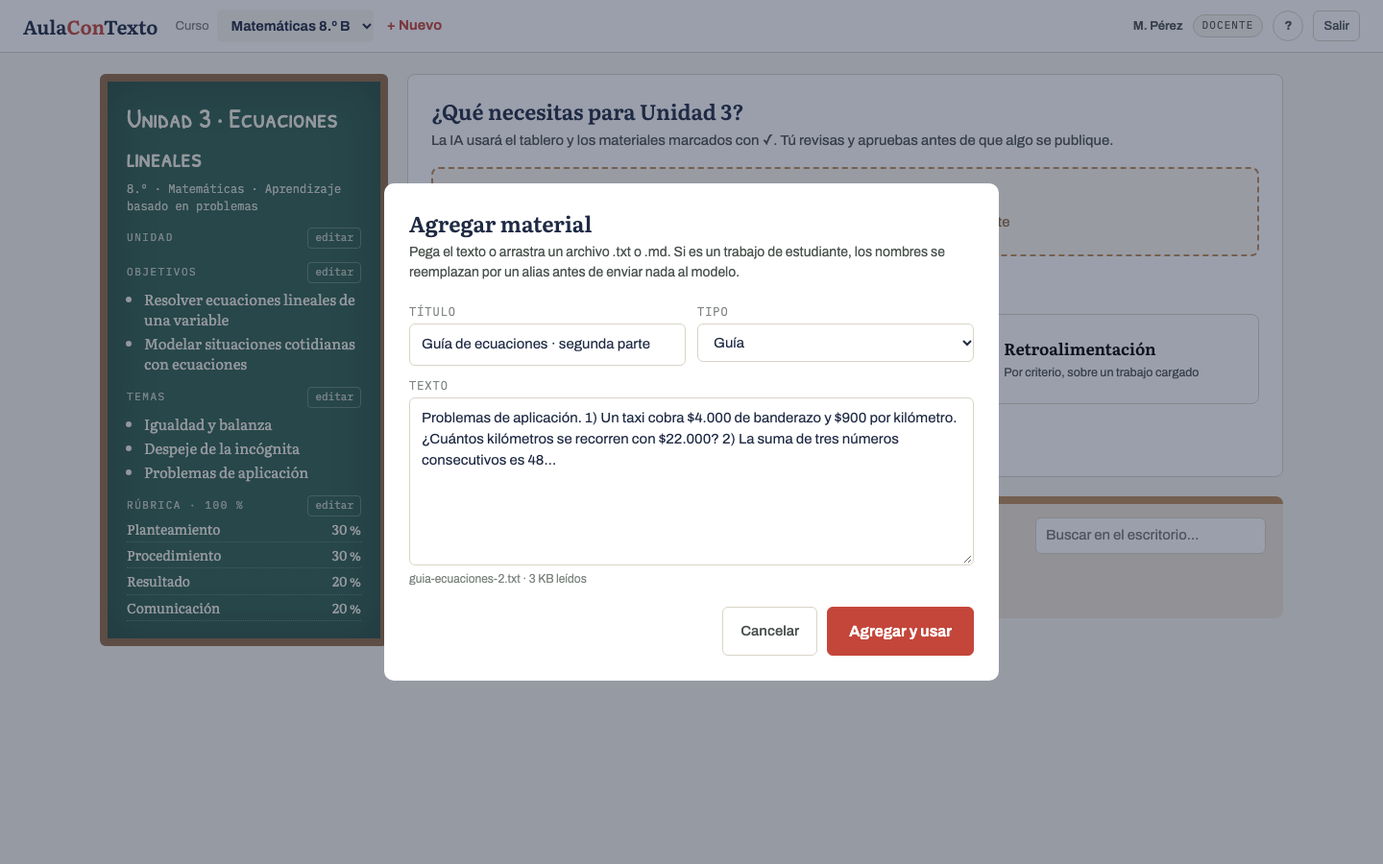
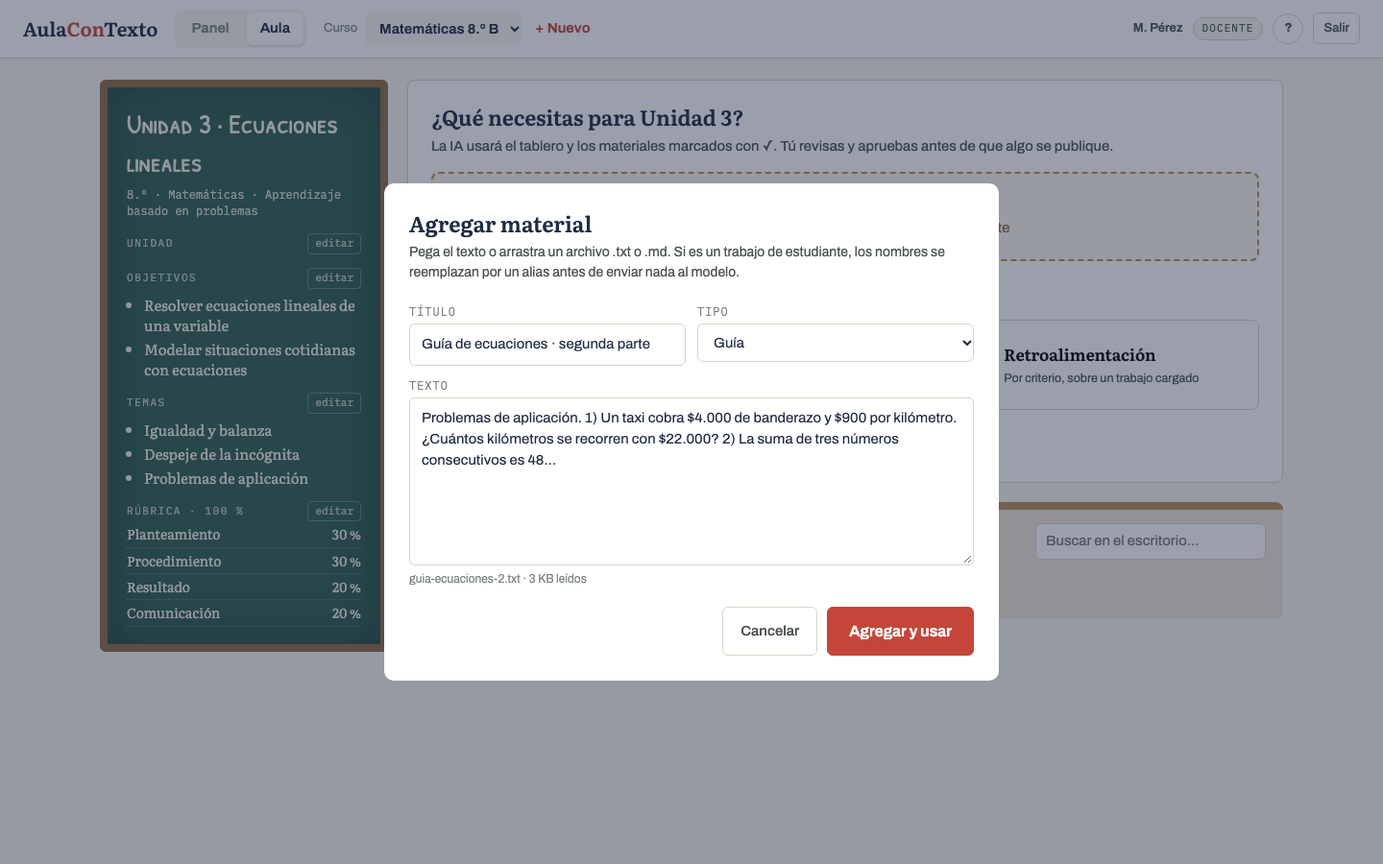
Prototipo v2: panel de inicio tipo dashboard con fichas de pizarrón, tarjetas por curso, pendientes y actividad; resumen por curso en coordinación

diff --git a/prototipo/prototipo-v2.html b/prototipo/prototipo-v2.html
@@ -64,7 +64,7 @@ label{display:block;font-size:12px;letter-spacing:.08em;text-transform:uppercase
 .escritorio{margin-top:20px;background:#EFE6D8;border-radius:8px;padding:14px 18px;border-top:8px solid var(--madera)}
 .escritorio .bar{display:flex;gap:14px;align-items:center;margin-bottom:10px;flex-wrap:wrap}.escritorio .tabs{display:flex;gap:14px;font-size:14px}.escritorio .tabs b{cursor:pointer;color:var(--ink3);font-weight:500}.escritorio .tabs b.on{color:var(--ink);font-weight:600;border-bottom:2px solid var(--rojo)}
 .escritorio input{width:240px;padding:7px 10px}
-.hojas{display:flex;gap:10px;overflow-x:auto;padding-bottom:4px}.hoja{min-width:230px;background:#fff;border:1px solid var(--rule);padding:10px 12px;border-radius:4px;cursor:pointer;box-shadow:1px 2px 0 rgba(0,0,0,.08)}
+.hojas{display:grid;grid-template-columns:repeat(auto-fill,minmax(220px,1fr));gap:10px}.hoja{background:#fff;border:1px solid var(--rule);padding:10px 12px;border-radius:4px;cursor:pointer;box-shadow:1px 2px 0 rgba(0,0,0,.08);min-height:84px}.hoja:hover{border-color:var(--ink)}
 .hoja .s{font-family:var(--mono);font-size:11px;letter-spacing:.1em;text-transform:uppercase}.hoja .s.p{color:var(--rojo)}.hoja .s.a{color:var(--ok)}.hoja small{color:var(--ink3)}
 .vacio{color:var(--ink3);font-size:13px;padding:10px 0}
 .modal{position:fixed;inset:0;background:rgba(31,42,68,.45);display:none;align-items:center;justify-content:center;padding:20px;z-index:5}.modal.on{display:flex}
@@ -74,7 +74,26 @@ label{display:block;font-size:12px;letter-spacing:.08em;text-transform:uppercase
 .tip{background:#FFF8DC;border:1px solid #E8D27A;border-radius:6px;padding:8px 12px;font-size:13px;color:#6B5A12;margin-bottom:12px;display:flex;justify-content:space-between;gap:10px}.tip button{border:none;background:none;color:#6B5A12;font-weight:600}
 .banner{background:var(--ink);color:#fff;padding:8px 24px;font-size:13px;text-align:center}
 /* coordinador */
-.kpis{display:grid;grid-template-columns:repeat(4,1fr);gap:12px;margin-bottom:16px}.kpi{background:#fff;border:1px solid var(--rule);border-radius:8px;padding:14px}.kpi b{display:block;font-family:var(--serif);font-size:28px}.kpi span{font-size:12px;color:var(--ink3);font-family:var(--mono);letter-spacing:.08em;text-transform:uppercase}
+.kpis{display:grid;grid-template-columns:repeat(4,1fr);gap:14px;margin-bottom:18px}
+.kpi{background:var(--tablero);border:5px solid var(--madera2);border-radius:6px;padding:14px 16px;color:var(--tiza);box-shadow:inset 0 0 30px rgba(0,0,0,.25);position:relative;min-height:96px}
+.kpi b{display:block;font-family:var(--chalk);font-weight:400;font-size:44px;line-height:1}.kpi span{font-size:11px;font-family:var(--mono);letter-spacing:.12em;text-transform:uppercase;opacity:.8}.kpi small{display:block;margin-top:6px;font-size:12px;opacity:.85;font-family:var(--serif)}
+.kpi.rojo b{color:#F6C9C3}.kpi.ok b{color:#CFEBDB}.kpi.ia b{color:#DCD3F2}.kpi.am b{color:var(--amar)}
+.nav{display:flex;gap:4px;background:var(--pared);border-radius:8px;padding:3px}.nav button{border:none;background:none;padding:6px 14px;border-radius:6px;font-weight:600;color:var(--ink3)}.nav button.on{background:#fff;color:var(--ink);box-shadow:0 1px 2px rgba(0,0,0,.12)}
+.panel h2{font-family:var(--serif);font-size:22px;margin:0 0 2px}.panel .sub{color:var(--ink2);margin:0 0 16px;font-size:14px}
+.sec{font-family:var(--mono);font-size:11px;letter-spacing:.14em;text-transform:uppercase;color:var(--ink3);margin:22px 0 10px;display:flex;align-items:center;gap:10px}.sec:after{content:"";flex:1;height:1px;background:var(--rule)}
+.cursos{display:grid;grid-template-columns:repeat(auto-fill,minmax(250px,1fr));gap:14px}
+.ccard{background:var(--tablero);border:6px solid var(--madera2);border-radius:6px;padding:14px 16px 12px;color:var(--tiza);box-shadow:inset 0 0 40px rgba(0,0,0,.25);cursor:pointer;display:flex;flex-direction:column;gap:6px;min-height:170px;transition:transform .12s}.ccard:hover{transform:translateY(-2px)}
+.ccard h3{font-family:var(--chalk);font-weight:400;font-size:26px;margin:0;line-height:1.05}.ccard .meta{font-family:var(--mono);font-size:11px;opacity:.8}
+.ccard .nums{display:flex;gap:14px;margin-top:auto;padding-top:8px;border-top:1px dashed rgba(255,255,255,.3)}.ccard .nums div{font-family:var(--chalk);font-size:22px;line-height:1}.ccard .nums span{display:block;font-family:var(--mono);font-size:10px;letter-spacing:.1em;text-transform:uppercase;opacity:.75;margin-top:2px}
+.ccard .alerta{font-size:11px;background:rgba(242,231,107,.18);border-left:3px solid var(--amar);padding:3px 6px;font-family:var(--sans)}
+.ccard.nuevo{background:transparent;border:2px dashed var(--madera);color:var(--madera2);box-shadow:none;align-items:center;justify-content:center;text-align:center}.ccard.nuevo h3{font-family:var(--sans);font-size:16px;font-weight:600;color:var(--madera2)}.ccard.nuevo:hover{background:#F4EBDD}
+.dos{display:grid;grid-template-columns:1fr 1fr;gap:14px}
+.wcard{background:#fff;border:1px solid var(--rule);border-radius:8px;padding:14px 16px}.wcard h4{margin:0 0 10px;font-family:var(--mono);font-size:11px;letter-spacing:.14em;text-transform:uppercase;color:var(--ink3)}
+.act{display:flex;gap:10px;padding:8px 0;border-bottom:1px dotted var(--rule);font-size:13px;align-items:flex-start}.act:last-child{border:0}.act i{width:10px;height:10px;border-radius:50%;flex:none;margin-top:5px}.act .ok{background:var(--ok)}.act .pen{background:var(--rojo)}.act .mat{background:var(--madera)}.act small{color:var(--ink3);display:block}
+.mini{display:grid;grid-template-columns:repeat(auto-fill,minmax(150px,1fr));gap:10px}.mini .hoja{min-height:70px}
+.barra{height:8px;background:var(--pared);border-radius:4px;overflow:hidden;margin-top:6px}.barra i{display:block;height:100%;background:var(--ok)}
+.escritorio .lab{font-family:var(--mono);font-size:11px;letter-spacing:.14em;text-transform:uppercase;color:var(--madera2)}
+@media (max-width:900px){.dos{grid-template-columns:1fr}}
 table.t{width:100%;border-collapse:collapse;font-size:14px;background:#fff}table.t th{text-align:left;font-family:var(--mono);font-size:11px;letter-spacing:.1em;text-transform:uppercase;color:var(--ink3);padding:8px;border-bottom:1px solid var(--rule)}table.t td{padding:9px 8px;border-bottom:1px solid var(--rule);vertical-align:top}table.t tr:hover td{background:#FBFAF7}
 .filtros{display:flex;gap:10px;margin-bottom:12px;flex-wrap:wrap}.filtros select,.filtros input{width:auto}
 .ayuda{position:fixed;right:20px;bottom:20px;width:320px;background:#fff;border:1px solid var(--rule);border-radius:10px;padding:16px;box-shadow:0 10px 30px rgba(0,0,0,.15);display:none;z-index:6;font-size:13px}.ayuda.on{display:block}.ayuda h4{margin:0 0 8px;font-family:var(--serif)}.ayuda kbd{font-family:var(--mono);background:var(--pared);border:1px solid var(--rule);border-radius:3px;padding:0 5px;font-size:11px}
@@ -94,6 +113,7 @@ table.t{width:100%;border-collapse:collapse;font-size:14px;background:#fff}table
 
 <div id="app" style="display:none">
 <div class="top"><div class="brand">Aula<span>Con</span>Texto</div>
+ <div class="nav" id="nav"><button data-v="panel">Panel</button><button data-v="aula">Aula</button></div>
  <div class="cursosel" id="cursosel"><span style="color:var(--ink3);font-size:13px">Curso</span><select id="csel"></select><button class="add" id="bnuevo">+ Nuevo</button></div>
  <div class="sp"></div><div class="who"><b id="wnom"></b><span class="pill" id="wrol"></span><button class="ico" id="bayuda" title="Ayuda (?)">?</button><button class="btn g sm" id="bsalir">Salir</button></div></div>
 <div class="banner" id="banner" style="display:none">Vista de coordinador · solo lectura · se muestran únicamente los planes y retroalimentaciones aprobados</div>
@@ -108,7 +128,7 @@ table.t{width:100%;border-collapse:collapse;font-size:14px;background:#fff}table
 <div class="modal" id="mm"><div class="box"><h2>Agregar material</h2><p class="sub">Pega el texto o arrastra un archivo .txt o .md. Si es un trabajo de estudiante, los nombres se reemplazan por un alias antes de enviar nada al modelo.</p><div class="row"><div><label>Título</label><input id="m_tit" placeholder="Guía de ecuaciones"></div><div><label>Tipo</label><select id="m_tipo"><option>Guía</option><option>Lectura</option><option>Plan de área</option><option>Trabajo de estudiante</option></select></div></div><label>Texto</label><textarea id="m_txt" rows="7" placeholder="Pega aquí el contenido…"></textarea><div id="m_prev" style="font-size:12px;color:var(--ink3);margin-top:6px"></div><div class="macts"><button class="btn g" data-close>Cancelar</button><button class="btn p" id="mok">Agregar y usar</button></div></div></div>
 <div class="modal" id="mr"><div class="box"><h2>Retroalimentación de un trabajo</h2><p class="sub">La IA redacta un borrador por criterio de la rúbrica. Tus observaciones se incorporan al borrador y luego lo revisas y apruebas.</p><label>Trabajo del estudiante</label><select id="r_trab"></select><label>Observaciones del docente (opcional)</label><textarea id="r_obs" rows="4" placeholder="Lo que viste al revisar: por ejemplo, «no justificó el despeje en el ejercicio 2; el 3 no lo intentó»."></textarea><div class="macts"><button class="btn g" data-close>Cancelar</button><button class="btn p" id="rok">Generar borrador</button></div></div></div>
 <input type="file" id="file" accept=".txt,.md,text/plain" style="display:none">
-<div class="ayuda" id="ayuda"><h4>Cómo funciona</h4><p><b>Tablero</b>: tu contexto. Lo que escribas ahí es lo único que la IA usa.</p><p><b>Dos tintas</b>: violeta = lo generó la IA; tinta = lo escribiste tú. Nada se publica sin tu aprobación.</p><p><b>Retroalimentación</b>: eliges el trabajo y, si quieres, escribes lo que observaste. La IA redacta por criterio y tú validas.</p><p><b>Regenerar por bloque</b>: pasa el mouse sobre un bloque y pulsa ↻. Tus otros cambios se conservan.</p><p><kbd>G</kbd> generar plan · <kbd>Esc</kbd> cerrar · <kbd>?</kbd> esta ayuda</p><button class="btn g sm" data-close style="margin-top:6px">Cerrar</button></div>
+<div class="ayuda" id="ayuda"><h4>Cómo funciona</h4><p><b>Panel</b>: resumen de tus cursos, pendientes y actividad. <b>Aula</b>: donde generas y validas.</p><p><b>Tablero</b>: tu contexto. Lo que escribas ahí es lo único que la IA usa.</p><p><b>Dos tintas</b>: violeta = lo generó la IA; tinta = lo escribiste tú. Nada se publica sin tu aprobación.</p><p><b>Retroalimentación</b>: eliges el trabajo y, si quieres, escribes lo que observaste. La IA redacta por criterio y tú validas.</p><p><b>Regenerar por bloque</b>: pasa el mouse sobre un bloque y pulsa ↻. Tus otros cambios se conservan.</p><p><kbd>G</kbd> generar plan · <kbd>Esc</kbd> cerrar · <kbd>?</kbd> esta ayuda</p><button class="btn g sm" data-close style="margin-top:6px">Cerrar</button></div>
 <div id="print"></div><div class="toast" id="toast"></div>
 
 <script>
@@ -118,9 +138,9 @@ const SEED={cursos:[
  {id:1,nombre:'Matemáticas 8.º B',grado:'8.º',asig:'Matemáticas',met:'Aprendizaje basado en problemas',uni:'Unidad 3 · Ecuaciones lineales',obj:['Resolver ecuaciones lineales de una variable','Modelar situaciones cotidianas con ecuaciones'],tem:['Igualdad y balanza','Despeje de la incógnita','Problemas de aplicación'],rub:[['Planteamiento',30],['Procedimiento',30],['Resultado',20],['Comunicación',20]],
   mats:[{t:'Guía de ecuaciones',tipo:'Guía',on:true,txt:'Una ecuación lineal es una igualdad con una incógnita de grado uno. Para resolverla se aplican las propiedades de la igualdad: lo que se hace a un lado se hace al otro. Ejercicios: 1) 2x + 3 = 11. 2) 5x − 4 = 3x + 6. 3) El presupuesto de una salida es de $120.000 y cada estudiante aporta $x…'},{t:'Trabajo · estudiante A-07',tipo:'Trabajo de estudiante',on:false,txt:'Ejercicio 1: 2x+3=11, entonces 2x=8 y x=4. Ejercicio 2: 5x−4=3x+6, paso 5x−3x=6… x=5 (no justifica el paso). Ejercicio 3: no lo intentó.'}],
   docs:[{id:'d1',k:'plan',tipo:'Plan de clase',titulo:'Plan · Unidad 2 · Números enteros',ok:true,v:2,aprobadoPor:'M. Pérez',fecha:'2026-10-28 14:12',vers:[{v:1,html:'<h3>Plan de clase · Unidad 2</h3><div class="bloque"><b class="lb">Objetivo</b><span class="ia">Operar con números enteros en la recta numérica.</span></div>'},{v:2,html:'<h3>Plan de clase · Unidad 2 · Números enteros</h3><div class="bloque"><b class="lb">Objetivo</b><span class="edit">Operar con números enteros en la recta numérica y en situaciones de temperatura y deuda.</span></div><div class="bloque"><b class="lb">Inicio · 10 min</b><span class="ia">Termómetro gigante en el tablero: ¿cuánto bajó la temperatura?</span></div>'}],ctx:{obj:2,tem:3,rub:4,mats:['Guía de enteros']}}]},
- {id:2,nombre:'Lenguaje 7.º A',grado:'7.º',asig:'Lenguaje',met:'Aprendizaje cooperativo',uni:'Unidad 2 · Texto argumentativo',obj:['Escribir un texto argumentativo con tesis y argumentos'],tem:['Tesis','Argumentos','Conectores'],rub:[['Tesis clara',30],['Argumentación',40],['Cohesión',30]],mats:[],docs:[]},
+ {id:2,nombre:'Lenguaje 7.º A',grado:'7.º',asig:'Lenguaje',met:'Aprendizaje cooperativo',uni:'Unidad 2 · Texto argumentativo',obj:['Escribir un texto argumentativo con tesis y argumentos'],tem:['Tesis','Argumentos','Conectores'],rub:[['Tesis clara',30],['Argumentación',40],['Cohesión',30]],mats:[{t:'Lectura · columna de opinión',tipo:'Lectura',on:true,txt:'Una tesis es la idea que el autor defiende. Los argumentos la sostienen con razones, ejemplos o datos. Los conectores (por lo tanto, sin embargo, además) ordenan el razonamiento.'}],docs:[{id:'d2',k:'taller',tipo:'Taller',titulo:'Taller · Unidad 2 · Texto argumentativo',ok:false,v:1,vers:[{v:1,html:'<h3>Taller · Unidad 2 · Texto argumentativo</h3><div class="m">7.º · Aprendizaje cooperativo</div><div class="bloque"><b class="lb" style="font-family:var(--sans);font-size:13px;color:var(--ink3);display:block">Punto 1 · Tesis clara</b><span class="ia" contenteditable>Lee la columna de opinión y subraya la tesis. Escríbela con tus palabras en una línea.</span></div><div class="bloque"><b class="lb" style="font-family:var(--sans);font-size:13px;color:var(--ink3);display:block">Punto 2 · Argumentación</b><span class="ia" contenteditable>Identifica dos argumentos del autor y clasifícalos: razón, ejemplo o dato.</span></div>'}],ctx:{obj:1,tem:3,rub:3,mats:['Lectura · columna de opinión']}}]},
  {id:3,nombre:'Ciencias 9.º C',grado:'9.º',asig:'Ciencias naturales',met:'Aula invertida',uni:'Unidad 1 · Célula',obj:['Describir la estructura y función de la célula'],tem:['Membrana','Núcleo','Organelos'],rub:[['Comprensión',40],['Uso de evidencia',30],['Comunicación',30]],mats:[],docs:[]}]};
-let S=load(),cur=S.cursos[0],user=null,modo='idle',hoja=null,verSel=null,tab='p',q='',edit=null,timer=null;
+let S=load(),cur=S.cursos[0],user=null,vista='panel',modo='idle',hoja=null,verSel=null,tab='p',q='',edit=null,timer=null;
 function load(){try{const s=localStorage.getItem('aulacontexto-v2');if(s){const o=JSON.parse(s);if(o.cursos&&o.cursos[0]&&Array.isArray(o.cursos[0].docs))return o}}catch(e){}return JSON.parse(JSON.stringify(SEED))}
 function save(){try{localStorage.setItem('aulacontexto-v2',JSON.stringify(S))}catch(e){}}
 const toast=m=>{const t=$('#toast');t.textContent=m;t.classList.add('on');clearTimeout(t._t);t._t=setTimeout(()=>t.classList.remove('on'),2600)};
@@ -128,16 +148,29 @@ const closeAll=()=>{$$('.modal').forEach(m=>m.classList.remove('on'));$('#ayuda'
 document.addEventListener('click',e=>{if(e.target.closest('[data-close]'))closeAll()});
 document.addEventListener('keydown',e=>{if(e.key==='Escape')closeAll();if(!user||e.target.matches('input,textarea,[contenteditable]'))return;if(e.key==='?'){$('#ayuda').classList.toggle('on')}if((e.key==='g'||e.key==='G')&&user.rol==='doc'&&modo==='idle')generar('plan')});
 // ---- login
-function entrar(rol){user=rol==='doc'?{nombre:'M. Pérez',rol:'doc',label:'Docente'}:{nombre:'L. Rojas',rol:'coord',label:'Coordinación'};$('#login').style.display='none';$('#app').style.display='';$('#wnom').textContent=user.nombre;$('#wrol').textContent=user.label;$('#banner').style.display=rol==='coord'?'':'none';$('#cursosel').style.display=rol==='coord'?'none':'';modo='idle';render();}
+function entrar(rol){user=rol==='doc'?{nombre:'M. Pérez',rol:'doc',label:'Docente'}:{nombre:'L. Rojas',rol:'coord',label:'Coordinación'};$('#login').style.display='none';$('#app').style.display='';$('#wnom').textContent=user.nombre;$('#wrol').textContent=user.label;$('#banner').style.display=rol==='coord'?'':'none';$('#cursosel').style.display=rol==='coord'?'none':'';$('#nav').style.display=rol==='coord'?'none':'';vista='panel';modo='idle';render();}
+$$('#nav button').forEach(b=>b.onclick=()=>{vista=b.dataset.v;modo='idle';render()});
 $$('[data-demo]').forEach(b=>b.onclick=()=>entrar(b.dataset.demo));
 $('#l_ok').onclick=()=>{const m=$('#l_mail').value;if(!m.includes('@')){toast('Escribe un correo institucional');return}entrar(m.startsWith('coord')?'coord':'doc')};
 $('#bsalir').onclick=()=>{user=null;$('#app').style.display='none';$('#login').style.display=''};
 $('#bayuda').onclick=()=>$('#ayuda').classList.toggle('on');
 // ---- render
-function render(){if(!user)return;if(user.rol==='coord'){renderCoord();return}renderSel();$('#main').innerHTML=`<div class="tip" id="tip"><span><b>Para empezar:</b> el tablero ya tiene el contexto del curso. Agrega un material o pulsa «Generar plan» (tecla G) y revisa el borrador antes de aprobarlo.</span><button id="tipx">Entendido</button></div><div class="aula"><div class="tablero" id="tablero"></div><div><div class="zona" id="zona"></div><div class="escritorio"><div class="bar"><div class="tabs"><b data-t="p">Pendientes <span id="np"></span></b><b data-t="a">Aprobados <span id="na"></span></b><b data-t="t">Todos</b></div><span class="sp"></span><input id="qs" placeholder="Buscar en el escritorio…" value="${q}"></div><div class="hojas" id="hojas"></div></div></div></div>`;
+function render(){if(!user)return;if(user.rol==='coord'){renderCoord();return}$$('#nav button').forEach(b=>b.classList.toggle('on',b.dataset.v===vista));$('#cursosel').style.display=vista==='aula'?'':'none';if(vista==='panel'){renderPanel();return}renderSel();$('#main').innerHTML=`<div class="tip" id="tip"><span><b>Para empezar:</b> el tablero ya tiene el contexto del curso. Agrega un material o pulsa «Generar plan» (tecla G) y revisa el borrador antes de aprobarlo.</span><button id="tipx">Entendido</button></div><div class="aula"><div class="tablero" id="tablero"></div><div><div class="zona" id="zona"></div><div class="escritorio"><div class="bar"><span class="lab">Escritorio</span><div class="tabs"><b data-t="p">Pendientes <span id="np"></span></b><b data-t="a">Aprobados <span id="na"></span></b><b data-t="t">Todos</b></div><span class="sp"></span><input id="qs" placeholder="Buscar en el escritorio…" value="${q}"></div><div class="hojas" id="hojas"></div></div></div></div>`;
  if(S.tipOff)$('#tip').remove();else $('#tipx').onclick=()=>{S.tipOff=true;save();$('#tip').remove()};
  $('#qs').oninput=e=>{q=e.target.value;renderHojas()};renderTablero();renderZona();renderHojas()}
-function renderSel(){$('#csel').innerHTML=S.cursos.map(c=>`<option value="${c.id}" ${c===cur?'selected':''}>${c.nombre}</option>`).join('');$('#csel').onchange=e=>{cur=S.cursos.find(c=>c.id==e.target.value);modo='idle';hoja=null;render()}}
+function fecha(d){return d.fecha?d.fecha.slice(0,10):''}
+function renderPanel(){const pend=S.cursos.flatMap(c=>c.docs.filter(d=>!d.ok).map(d=>({c,d})));const apr=S.cursos.flatMap(c=>c.docs.filter(d=>d.ok).map(d=>({c,d}))).sort((a,b)=>(b.d.fecha||'').localeCompare(a.d.fecha||''));const mats=S.cursos.reduce((a,c)=>a+c.mats.length,0);const incompletos=S.cursos.filter(c=>!c.obj.length||!c.tem.length);
+ const act=[...apr.map(({c,d})=>({t:d.fecha,h:`<b>${d.titulo}</b> aprobado · ${c.nombre}`,k:'ok'})),...pend.map(({c,d})=>({t:'',h:`<b>${d.titulo}</b> en borrador · ${c.nombre}`,k:'pen'})),...S.cursos.flatMap(c=>c.mats.map(m=>({t:'',h:`Material «${m.t}» en ${c.nombre}${m.on?' · en uso':''}`,k:'mat'})))].slice(0,7);
+ $('#main').innerHTML=`<div class="panel"><h2>Hola, ${user.nombre}</h2><p class="sub">Tu semana en un vistazo. Entra a un aula para generar o revisar.</p>
+ <div class="kpis"><div class="kpi"><b>${S.cursos.length}</b><span>Cursos</span><small>${incompletos.length?incompletos.length+' con tablero incompleto':'Todos con tablero completo'}</small></div><div class="kpi rojo"><b>${pend.length}</b><span>Pendientes de revisar</span><small>${pend.length?'Borradores esperando tu validación':'Nada por revisar'}</small></div><div class="kpi ok"><b>${apr.length}</b><span>Aprobados</span><small>${apr[0]?'Último: '+fecha(apr[0].d):'Aún no apruebas ninguno'}</small></div><div class="kpi ia"><b>${mats}</b><span>Materiales</span><small>${S.cursos.reduce((a,c)=>a+c.mats.filter(m=>m.on).length,0)} marcados para la IA</small></div></div>
+ <div class="sec">Mis cursos</div><div class="cursos">${S.cursos.map(c=>{const p=c.docs.filter(d=>!d.ok).length,a=c.docs.filter(d=>d.ok).length,inc=!c.obj.length||!c.tem.length;return `<div class="ccard" data-c="${c.id}"><h3>${c.nombre}</h3><div class="meta">${c.grado} · ${c.asig}</div><div class="meta">${c.uni}</div>${inc?'<div class="alerta">Tablero incompleto</div>':''}<div class="nums"><div>${p}<span>Pendientes</span></div><div>${a}<span>Aprobados</span></div><div>${c.mats.length}<span>Materiales</span></div></div></div>`}).join('')}<div class="ccard nuevo" id="pnuevo"><h3>+ Nuevo curso</h3><div style="font-size:12px">Tres datos y listo</div></div></div>
+ <div class="dos" style="margin-top:22px"><div class="wcard"><h4>Pendientes de revisar</h4>${pend.length?`<div class="mini">${pend.map(({c,d})=>`<div class="hoja" data-h="${c.id}:${d.id}"><div class="s p">Pendiente</div><b>${d.titulo}</b><br><small>${c.nombre} · ${d.tipo}</small></div>`).join('')}</div>`:'<div class="vacio">Nada pendiente. Genera algo desde un aula.</div>'}</div>
+ <div class="wcard"><h4>Actividad reciente</h4>${act.length?act.map(a=>`<div class="act"><i class="${a.k}"></i><div>${a.h}${a.t?`<small>${a.t}</small>`:''}</div></div>`).join(''):'<div class="vacio">Sin actividad todavía.</div>'}</div></div>
+ <div class="dos" style="margin-top:14px"><div class="wcard"><h4>Avance de validación por curso</h4>${S.cursos.map(c=>{const n=c.docs.length,a=c.docs.filter(d=>d.ok).length;return `<div style="font-size:13px;margin-bottom:10px"><div style="display:flex;justify-content:space-between"><span>${c.nombre}</span><span style="color:var(--ink3)">${a}/${n} aprobados</span></div><div class="barra"><i style="width:${n?Math.round(a*100/n):0}%"></i></div></div>`}).join('')}</div>
+ <div class="wcard"><h4>Cómo funciona</h4><div class="act"><i class="mat"></i><div><b>1. Tablero</b><small>Objetivos, temas y rúbrica: el único contexto que usa la IA.</small></div></div><div class="act"><i class="pen"></i><div><b>2. Generar</b><small>Plan de clase, taller o retroalimentación sobre un trabajo.</small></div></div><div class="act"><i class="ok"></i><div><b>3. Validar</b><small>Dos tintas: violeta la IA, tinta tú. Nada se publica sin tu aprobación.</small></div></div></div></div></div>`;
+ $$('.ccard[data-c]').forEach(el=>el.onclick=()=>{cur=S.cursos.find(c=>c.id==el.dataset.c);vista='aula';modo='idle';hoja=null;render()});$('#pnuevo').onclick=()=>$('#mn').classList.add('on');
+ $$('[data-h]').forEach(el=>el.onclick=()=>{const [ci,di]=el.dataset.h.split(':');cur=S.cursos.find(c=>c.id==ci);hoja=cur.docs.find(d=>d.id===di);vista='aula';modo='res';render()})}
+function renderSel(){$('#csel').innerHTML=S.cursos.map(c=>`<option value="${c.id}" ${c===cur?'selected':''}>${c.nombre}</option>`).join('');$('#csel').onchange=e=>{cur=S.cursos.find(c=>c.id==e.target.value);vista='aula';modo='idle';hoja=null;render()}}
 function renderTablero(){const t=$('#tablero');const ed=(k,l)=>`<button data-edit="${k}">${l}</button>`;const incompleto=!cur.obj.length||!cur.tem.length;
  t.innerHTML=`<h3>${cur.uni}</h3><div class="meta">${cur.grado} · ${cur.asig} · ${cur.met}</div>${incompleto?'<div class="warn">Tablero incompleto: la IA generará con lo que haya. Completa objetivos y temas para mejores resultados.</div>':''}
  <div class="lbl"><span>UNIDAD</span>${ed('uni','editar')}</div><div class="lbl"><span>OBJETIVOS</span>${ed('obj','editar')}</div><ul>${cur.obj.map(o=>`<li>${o}</li>`).join('')||'<li><i>Añade los objetivos</i></li>'}</ul>
@@ -195,22 +228,23 @@ function renderHojas(){const all=cur.docs.filter(d=>tab==='t'||(tab==='p'?!d.ok:
  $$('.hoja').forEach(el=>el.onclick=()=>{hoja=cur.docs.find(d=>d.id===el.dataset.id);verSel=null;modo='res';renderZona();window.scrollTo({top:0,behavior:'smooth'})})}
 // ---- nuevo curso
 $('#bnuevo').onclick=()=>$('#mn').classList.add('on');
-$('#nok').onclick=()=>{if(!$('#n_nombre').value){toast('Escribe el nombre del curso');return}cur={id:Date.now(),nombre:$('#n_nombre').value,grado:$('#n_grado').value,asig:$('#n_asig').value||'—',met:$('#n_met').value,uni:'Unidad 1',obj:[],tem:[],rub:RUB0.map(r=>[...r]),mats:[],docs:[]};S.cursos.push(cur);save();closeAll();modo='idle';render();toast('Curso creado. Completa el tablero cuando quieras.')};
+$('#nok').onclick=()=>{if(!$('#n_nombre').value){toast('Escribe el nombre del curso');return}cur={id:Date.now(),nombre:$('#n_nombre').value,grado:$('#n_grado').value,asig:$('#n_asig').value||'—',met:$('#n_met').value,uni:'Unidad 1',obj:[],tem:[],rub:RUB0.map(r=>[...r]),mats:[],docs:[]};S.cursos.push(cur);save();closeAll();vista='aula';modo='idle';render();toast('Curso creado. Completa el tablero cuando quieras.')};
 // ---- coordinador
 let cf={curso:'',tipo:'',q:''};
 function renderCoord(){const ap=S.cursos.flatMap(c=>c.docs.filter(d=>d.ok).map(d=>({c,d}))).filter(x=>(!cf.curso||x.c.id==cf.curso)&&(!cf.tipo||x.d.tipo===cf.tipo)&&(!cf.q||x.d.titulo.toLowerCase().includes(cf.q.toLowerCase())));
  const pend=S.cursos.reduce((a,c)=>a+c.docs.filter(d=>!d.ok).length,0);const docentes=new Set(S.cursos.flatMap(c=>c.docs.filter(d=>d.ok).map(d=>d.aprobadoPor))).size;
  $('#main').innerHTML=`<h2 style="font-family:var(--serif);margin:0 0 4px">Coordinación académica</h2><p style="color:var(--ink2);margin:0 0 16px">Solo se muestran planes, talleres y retroalimentaciones aprobados por su docente. Los borradores no son visibles.</p>
- <div class="kpis"><div class="kpi"><b>${S.cursos.length}</b><span>Cursos</span></div><div class="kpi"><b>${S.cursos.reduce((a,c)=>a+c.docs.filter(d=>d.ok).length,0)}</b><span>Aprobados</span></div><div class="kpi"><b>${pend}</b><span>En borrador (no visibles)</span></div><div class="kpi"><b>${docentes}</b><span>Docentes que validaron</span></div></div>
+ <div class="kpis"><div class="kpi"><b>${S.cursos.length}</b><span>Cursos</span><small>${S.cursos.filter(c=>c.docs.some(d=>d.ok)).length} con documentos aprobados</small></div><div class="kpi ok"><b>${S.cursos.reduce((a,c)=>a+c.docs.filter(d=>d.ok).length,0)}</b><span>Aprobados</span><small>Visibles para coordinación</small></div><div class="kpi rojo"><b>${pend}</b><span>En borrador</span><small>No visibles hasta su aprobación</small></div><div class="kpi ia"><b>${docentes}</b><span>Docentes que validaron</span><small>Cada aprobación con autor y fecha</small></div></div>
+ <div class="sec">Por curso</div><div class="cursos" style="margin-bottom:22px">${S.cursos.map(c=>{const a=c.docs.filter(d=>d.ok);const ult=a.slice().sort((x,y)=>(y.fecha||'').localeCompare(x.fecha||''))[0];return `<div class="ccard" data-fc="${c.id}"><h3>${c.nombre}</h3><div class="meta">${c.grado} · ${c.asig}</div><div class="meta">${c.uni}</div><div class="nums"><div>${a.filter(d=>d.tipo==='Plan de clase').length}<span>Planes</span></div><div>${a.filter(d=>d.tipo==='Taller').length}<span>Talleres</span></div><div>${a.filter(d=>d.tipo==='Retroalimentación').length}<span>Retro</span></div></div><div class="meta" style="margin-top:6px">${ult?'Última aprobación: '+ult.fecha.slice(0,10)+' · '+ult.aprobadoPor:'Sin aprobaciones'}</div></div>`}).join('')}</div><div class="sec">Documentos aprobados</div>
  <div class="filtros"><select id="f_c"><option value="">Todos los cursos</option>${S.cursos.map(c=>`<option value="${c.id}" ${cf.curso==c.id?'selected':''}>${c.nombre}</option>`).join('')}</select><select id="f_t"><option value="">Todos los tipos</option>${['Plan de clase','Taller','Retroalimentación'].map(t=>`<option ${cf.tipo===t?'selected':''}>${t}</option>`).join('')}</select><input id="f_q" placeholder="Buscar…" value="${cf.q}"></div>
  <table class="t"><tr><th>Curso</th><th>Documento</th><th>Tipo</th><th>Versión</th><th>Aprobado por</th><th>Fecha</th><th></th></tr>${ap.length?ap.map(({c,d})=>`<tr><td>${c.nombre}</td><td><b>${d.titulo}</b></td><td>${d.tipo}</td><td>v${actual(d).v}</td><td>${d.aprobadoPor}</td><td>${d.fecha}</td><td><button class="btn g sm" data-ver="${c.id}:${d.id}">Leer</button></td></tr>`).join(''):'<tr><td colspan="7" class="vacio">Ningún documento aprobado con estos filtros.</td></tr>'}</table><div id="lector" style="margin-top:18px"></div>`;
- $('#f_c').onchange=e=>{cf.curso=e.target.value;renderCoord()};$('#f_t').onchange=e=>{cf.tipo=e.target.value;renderCoord()};$('#f_q').oninput=e=>{cf.q=e.target.value;renderCoord();$('#f_q').focus()};
+ $('#f_c').onchange=e=>{cf.curso=e.target.value;renderCoord()};$$('[data-fc]').forEach(el=>el.onclick=()=>{cf.curso=el.dataset.fc;renderCoord();$('table.t').scrollIntoView({behavior:'smooth'})});$('#f_t').onchange=e=>{cf.tipo=e.target.value;renderCoord()};$('#f_q').oninput=e=>{cf.q=e.target.value;renderCoord();$('#f_q').focus()};
  $$('[data-ver]').forEach(b=>b.onclick=()=>{const [ci,di]=b.dataset.ver.split(':');const c=S.cursos.find(x=>x.id==ci),d=c.docs.find(x=>x.id===di);$('#lector').innerHTML=`<div class="zona"><div class="res"><div class="head"><h2>${d.titulo}</h2><span class="estado a">Aprobado · v${actual(d).v} · ${d.aprobadoPor} · ${d.fecha}</span></div><div class="doc" style="pointer-events:none">${actual(d).html.replace(/<span class="rg">.*?<\/span>/g,'')}</div><p style="font-size:13px;color:var(--ink3);margin-top:12px">Contexto usado: ${d.ctx.obj} objetivos, ${d.ctx.tem} temas, rúbrica de ${d.ctx.rub} criterios, materiales: ${d.ctx.mats.join(', ')||'ninguno'}. Nombres de estudiantes anonimizados.</p></div></div>`;$('#lector').scrollIntoView({behavior:'smooth'})})}
 
-// ---- vistas de demostración para capturas (?vista=aula|nuevo|material|proc|res|ok|coord|retro)
+// ---- vistas de demostración para capturas (?vista=panel|aula|nuevo|material|proc|res|ok|coord|retro)
 (function(){const v=new URLSearchParams(location.search).get('vista');if(!v)return;S=JSON.parse(JSON.stringify(SEED));cur=S.cursos[0];S.tipOff=true;
  Element.prototype.scrollIntoView=function(){};if(v==='coord'){const d=genera('plan');d.ok=true;d.aprobadoPor='M. Pérez';d.fecha='2026-11-09 10:42';cur.docs.unshift(d);entrar('coord');setTimeout(()=>document.querySelector('[data-ver]').click(),50);return}
- entrar('doc');
+ entrar('doc');if(v!=='panel'){vista='aula';render()}
  if(v==='nuevo'){$('#mn').classList.add('on');$('#n_nombre').value='Ciencias 9.º A';$('#n_asig').value='Ciencias naturales'}
  if(v==='material'){$('#mm').classList.add('on');$('#m_tit').value='Guía de ecuaciones · segunda parte';$('#m_txt').value='Problemas de aplicación. 1) Un taxi cobra $4.000 de banderazo y $900 por kilómetro. ¿Cuántos kilómetros se recorren con $22.000? 2) La suma de tres números consecutivos es 48…';$('#m_prev').textContent='guia-ecuaciones-2.txt · 3 KB leídos'}
  if(v==='proc'){modo='proc';renderZona();const st=$$('#prog .st');st.slice(0,2).forEach(x=>{x.classList.add('done');x.querySelector('i').textContent='✓'});st[2].classList.add('on');$('#eta').textContent='Tiempo estimado: 6 s'}
